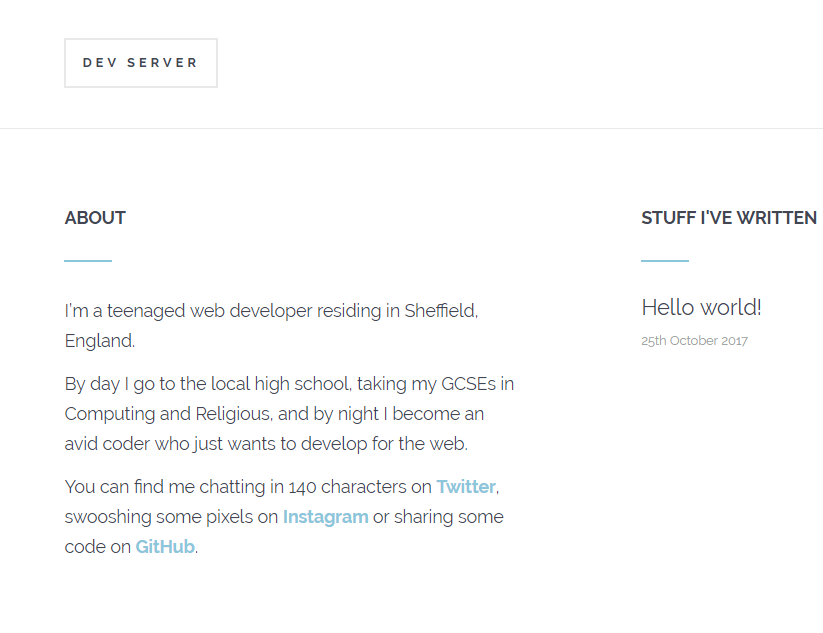
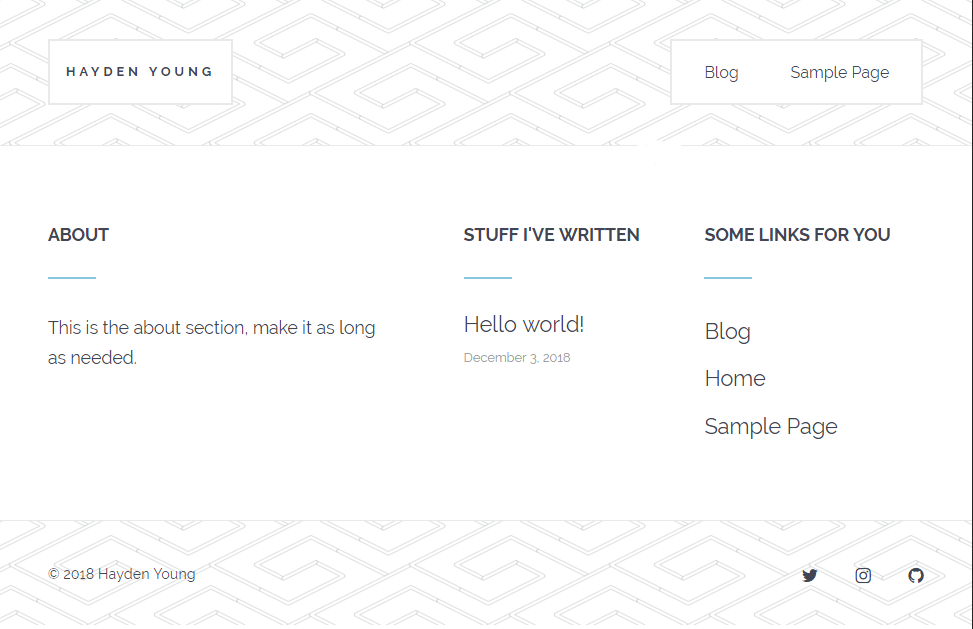
Updated theme to 18.12.3

diff --git a/style.css b/style.css
@@ -6,7 +6,7 @@ Theme URI: http://haydennyyy.com/flux
 Author: Hayden Young
 Author URI: http://haydennyyy.com
 Description: The FluX theme for WordPress is for bloggers looking for an elegant, calm design.
-Version: 18.12
+Version: 18.12.3
 License: GNU General Public License v3 or later
 License URI: http://www.gnu.org/licenses/gpl-2.0.html
 Tags: blue, light, one-column, custom-menu
@@ -14,4 +14,4 @@ Text Domain: hbjy-flux
 
 This theme, like WordPress, is licensed under the GPL.
 Use it to make something cool, have fun, and share what you've learned with others.
-*/#main_navigation nav .menu{list-style:none}#main_navigation nav .menu .menu-item{display:block;float:right}#main_footer nav{margin-top:-1.5em}#main_footer nav .menu{list-style:none}#main_footer nav .menu .menu-item{display:block;float:right}#home_navigation ul{padding:0;margin:0}#home_navigation ul li{list-style-type:none;font-size:1.35rem;font-weight:400;margin-bottom:.5em}.about li{padding:0;margin:0;list-style-type:none}#main_navigation{padding:2.5em 5%;border-bottom:1px solid #e9e9e9}#main_navigation .name{font-weight:700;font-size:.8em;letter-spacing:4px;text-transform:uppercase;border:2px solid #e9e9e9;padding:1rem;text-decoration:none;color:#424652;float:left}#main_navigation .logo{float:left}#main_navigation br{display:none}#main_navigation nav{float:right;padding-top:10px}#main_navigation nav ul{list-style:none;padding:0;margin:0}#main_navigation nav ul li a{color:#424652;text-decoration:none;margin:0 1rem;font-size:1rem}#main_navigation nav ul li a:hover{padding-bottom:.25rem;color:#8bc6db;border-bottom:2px solid #8bc6db}#main_navigation nav ul li .menu .icon{display:none}@media screen and (max-width:600px){#main_navigation nav{text-align:left;float:left;white-space:pre-wrap;clear:left}#main_navigation nav ul{text-align:left;padding:0;margin:0;float:left;clear:left}#main_navigation nav ul li{text-align:left;float:left;clear:left;list-style-type:none}}#posts_wrapper{padding:3em 0}#posts_wrapper .post{text-align:center}#posts_wrapper .post .date{font-size:.9em;margin:0}#posts_wrapper .post h2{margin:0;font-size:2em;text-transform:uppercase}#posts_wrapper .post h2 a{text-decoration:none;color:#424652}#posts_wrapper .post h2 a:hover{color:#8bc6db}#posts_wrapper hr{margin:3em auto}#post_show_content header{text-align:center}#post_show_content header .date{font-size:.9em;color:#9a9da4;margin:0}#post_show_content header h1{margin:0}#post_show_content hr{margin:2em auto}#404{text-align:center}#404 hr{margin:2em auto}#share_box{text-align:center}#share_box p{padding:0 0 1em 0;margin:0;font-weight:700;text-transform:uppercase;color:#424652;font-size:.8em}#share_box i{color:#424652;padding:1em 1.5em}#share_box i:hover{color:#8bc6db;cursor:pointer}#main_footer{padding:2.5em 5% 4em 5%;border-top:1px solid #e9e9e9}#main_footer .copyright{float:left;font-size:.9em;margin:0}#main_footer nav{float:right}#main_footer nav i{color:#424652;margin-left:1em;padding-top:.2em}#main_footer nav i:hover{color:#8bc6db}h1,h2,h3,h4,h5,h6,li,p,ul{color:#424652}h1{font-size:2.5rem}h2{font-size:2rem}h3{font-size:1.75rem}h4{font-size:1.375rem}h5{font-size:1.25rem}h6{font-size:1rem}li,p{font-size:1.1rem;line-height:1.75}ol,p,ul{margin:0 0 1.6em 0}.col-1,.col-2,.col-3{float:left}.col-1{width:45%;padding:0 5% 0 2.5%}.col-2,.col-3{width:27.5%;padding:0 2.5%}.homepage_content h2{font-size:1.1rem;text-transform:uppercase}.homepage_content h3{font-size:1.35rem;font-weight:400;margin-bottom:.5em}.homepage_content a{text-decoration:none;color:#424652}.homepage_content a:hover{color:#8bc6db}.homepage_content .date{font-size:.8em;margin-bottom:2em;color:#9a9da4}.homepage_content p{margin:0 0 .75em 0}.about{padding:0 7.5% 0 0}.about a{color:#8bc6db;font-weight:700;text-decoration:none}.comments-area #respond .comment-reply-title,.comments-area .comments-title{text-align:center;padding:0 0 1em 0;margin:0;font-weight:700;text-transform:uppercase;color:#424652;font-size:.8em}.comments-area #comments_list{padding:0;margin:1em 0 28.8px 0}.comments-area #comments_list li{padding:1em;border:1px solid #e9e9e9;list-style-type:none;margin-bottom:.5em}.comments-area #comments_list .fn,.comments-area #comments_list .says{font-size:1.5rem}.comments-area #comments_list .avatar{margin:10px;float:left}.comments-area #respond p.comment-form-comment{margin:0}input[type=email],input[type=password],input[type=text],textarea{width:100%;max-width:100%;height:3em;border:2px solid #e9e9e9;padding:1em;margin:.5em 0 2em 0}textarea{min-height:20em}button,input[type=submit]{outline:none;background:transparent;border:2px solid #e9e9e9;text-align:center;font-size:1em;color:#424652;text-decoration:none;padding:1em 2em}button:hover,input[type=submit]:hover{border:2px solid #8bc6db;color:#8bc6db}.pagination{text-align:center;margin:0 0 3em 0}.pagination .screen-reader-text{display:none}.pagination .current,.pagination .next,.pagination .prev,.pagination a{padding:.75em 1em;margin:0 .5em;border-radius:.15em;line-height:20px;text-decoration:none;background:none;font-weight:700;font-size:.7em;font-style:normal;color:#424652}.pagination .current:hover,.pagination .next:hover,.pagination .prev:hover,.pagination a:hover{background:#8bc6db;color:#fff}.pagination .current{background:#8bc6db;color:#fff}.pagination:after,.pagination:before{content:"";display:table}.pagination:after{clear:box}@media screen and (max-width:600px){.wrapper{width:80%}.wrapper .col-1,.wrapper .col-2,.wrapper .col-3{width:100%}}
+*/#main_navigation nav .menu{list-style:none}#main_navigation nav .menu .menu-item{display:inline}#main_footer nav ul{list-style:none}#main_footer nav ul .menu-item,#main_footer nav ul .page_item{display:inline;margin-left:16px}#home_navigation ul{padding:0;margin:0}#home_navigation ul li{list-style-type:none;font-size:1.35rem;font-weight:400;margin-bottom:.5em}.about li{padding:0;margin:0;list-style-type:none}#main_navigation{padding:2.5em 5%;border-bottom:1px solid #e9e9e9;display:grid;grid-template-columns:auto 1fr auto}#main_navigation .name{background:white;font-weight:700;font-size:.8em;letter-spacing:4px;text-transform:uppercase;border:2px solid #e9e9e9;padding:1.5rem 1rem 1rem 1rem;text-decoration:none;color:#424652;float:left;grid-column:1}#main_navigation .logo{float:left}#main_navigation br{display:none}#main_navigation nav{grid-column:3}#main_navigation nav ul{display:block;list-style:none;padding:0;margin:0;background:white;border:2px solid #e9e9e9;padding:1rem;text-decoration:none;color:#424652}#main_navigation nav ul li{display:inline;margin-left:16px}#main_navigation nav ul li:first-child{margin-left:0}#main_navigation nav ul li a{color:#424652;text-decoration:none;margin:0 1rem;font-size:1rem}#main_navigation nav ul li a:hover{padding-bottom:.25rem;color:#8bc6db;border-bottom:2px solid #8bc6db}#main_navigation nav ul li .menu .icon{display:none}@media screen and (max-width:600px){#main_navigation nav{text-align:left;float:left;white-space:pre-wrap;clear:left}#main_navigation nav ul{text-align:left;padding:0;margin:0;float:left;clear:left}#main_navigation nav ul li{text-align:left;float:left;clear:left;list-style-type:none}}#posts_wrapper{padding:3em 0}#posts_wrapper .post{text-align:center}#posts_wrapper .post .date{font-size:.9em;margin:0}#posts_wrapper .post h2{margin:0;font-size:2em;text-transform:uppercase}#posts_wrapper .post h2 a{text-decoration:none;color:#424652}#posts_wrapper .post h2 a:hover{color:#8bc6db}#posts_wrapper hr{margin:3em auto}#post_show_content .fimage{width:100%;margin-bottom:32px}#post_show_content header{text-align:center}#post_show_content header .date{font-size:.9em;color:#9a9da4;margin:0}#post_show_content header h1{margin:0}#post_show_content hr{margin:2em auto}#404{text-align:center}#404 hr{margin:2em auto}#share_box{text-align:center}#share_box p{padding:0 0 1em 0;margin:0;font-weight:700;text-transform:uppercase;color:#424652;font-size:.8em}#share_box i{color:#424652;padding:1em 1.5em}#share_box i:hover{color:#8bc6db;cursor:pointer}#main_footer{padding:2.5em 5% 4em 5%;border-top:1px solid #e9e9e9}#main_footer .copyright{float:left;font-size:.9em;margin:0}#main_footer nav{float:right}#main_footer nav i{color:#424652;margin-left:1em;padding-top:.2em}#main_footer nav i:hover{color:#8bc6db}h1,h2,h3,h4,h5,h6,li,p,ul{color:#424652}h1{font-size:2.5rem}h2{font-size:2rem}h3{font-size:1.75rem}h4{font-size:1.375rem}h5{font-size:1.25rem}h6{font-size:1rem}li,p{font-size:1.1rem;line-height:1.75}ol,p,ul{margin:0 0 1.6em 0}.col-1,.col-2,.col-3{float:left}.col-1{width:45%;padding:0 5% 0 2.5%}.col-2,.col-3{width:27.5%;padding:0 2.5%}.homepage_content h2{font-size:1.1rem;text-transform:uppercase}.homepage_content h3{font-size:1.35rem;font-weight:400;margin-bottom:.5em}.homepage_content a{text-decoration:none;color:#424652}.homepage_content a:hover{color:#8bc6db}.homepage_content .date{font-size:.8em;margin-bottom:2em;color:#9a9da4}.homepage_content p{margin:0 0 .75em 0}.about{padding:0 7.5% 0 0}.about a{color:#8bc6db;font-weight:700;text-decoration:none}.comments-area #respond .comment-reply-title,.comments-area .comments-title{text-align:center;padding:0 0 1em 0;margin:0;font-weight:700;text-transform:uppercase;color:#424652;font-size:.8em}.comments-area #comments_list{padding:0;margin:1em 0 28.8px 0}.comments-area #comments_list li{padding:1em;border:1px solid #e9e9e9;list-style-type:none;margin-bottom:.5em}.comments-area #comments_list .fn,.comments-area #comments_list .says{font-size:1.5rem}.comments-area #comments_list .avatar{margin:10px;float:left}.comments-area #respond p.comment-form-comment{margin:0}input[type=email],input[type=password],input[type=text],textarea{width:100%;max-width:100%;height:3em;border:2px solid #e9e9e9;padding:1em;margin:.5em 0 2em 0}textarea{min-height:20em}button,input[type=submit]{outline:none;background:transparent;border:2px solid #e9e9e9;text-align:center;font-size:1em;color:#424652;text-decoration:none;padding:1em 2em}button:hover,input[type=submit]:hover{border:2px solid #8bc6db;color:#8bc6db}.pagination{text-align:center;margin:0 0 3em 0}.pagination .screen-reader-text{display:none}.pagination .current,.pagination .next,.pagination .prev,.pagination a{padding:.75em 1em;margin:0 .5em;border-radius:.15em;line-height:20px;text-decoration:none;background:none;font-weight:700;font-size:.7em;font-style:normal;color:#424652}.pagination .current:hover,.pagination .next:hover,.pagination .prev:hover,.pagination a:hover{background:#8bc6db;color:#fff}.pagination .current{background:#8bc6db;color:#fff}.pagination:after,.pagination:before{content:"";display:table}.pagination:after{clear:box}@media screen and (max-width:600px){.wrapper{width:80%}.wrapper .col-1,.wrapper .col-2,.wrapper .col-3{width:100%}}

diff --git a/scss/_navigation.scss b/scss/_navigation.scss
@@ -1,16 +1,20 @@
 #main_navigation {
   padding: 2.5em 5%;
   border-bottom: 1px solid $border;
+  display: grid;
+  grid-template-columns: auto 1fr auto;
   .name {
+    background: white;
     font-weight: 700;
     font-size: .8em;
     letter-spacing: 4px;
     text-transform: uppercase;
     border: 2px solid $border;
-    padding: 1rem;
+    padding: 1.5rem 1rem 1rem 1rem;
     text-decoration: none;
     color: $dark;
     float: left;
+    grid-column: 1;
   }
   .logo {
     float:left;
@@ -19,13 +23,21 @@
     display: none;
   }
   nav {
-    float: right;
-    padding-top: 10px;
+    grid-column: 3;
     ul {
+      display: block;
       list-style: none;
       padding: 0;
       margin: 0;
+      background: white;
+      border: 2px solid $border;
+      padding: 1rem;
+      text-decoration: none;
+      color: $dark;
       li {
+        display: inline;
+        margin-left: 16px;
+        &:first-child { margin-left: 0 }
         a {
           color: $dark;
           text-decoration: none;

diff --git a/scss/wp_specific.scss b/scss/wp_specific.scss
@@ -23,8 +23,7 @@ Use it to make something cool, have fun, and share what you've learned with othe
     .menu {
       list-style: none;
       .menu-item {
-        display: block;
-        float: right;
+        display: inline;
       }
     }
   }
@@ -32,13 +31,9 @@ Use it to make something cool, have fun, and share what you've learned with othe
 
 #main_footer {
   nav {
-    margin-top: -1.5em;
-    .menu {
+    ul {
       list-style: none;
-      .menu-item {
-        display: block;
-        float: right;
-      }
+      .menu-item, .page_item { display: inline; margin-left: 16px; }
     }
   }
 }

diff --git a/scss/post_project.scss b/scss/post_project.scss
@@ -26,6 +26,10 @@
 
 // Posts Show
 #post_show_content {
+  .fimage {
+    width: 100%;
+    margin-bottom: 32px;
+  }
   header {
     text-align: center;
     .date {

diff --git a/single.php b/single.php
@@ -1,7 +1,16 @@
 <?php get_header(); ?>
 
-<div id="post_show_content" class="wrapper_padding skinny_wrapper">
-  <?php if ( have_posts() ) : while ( have_posts() ) : the_post(); ?>
+<article id="post_show_content" class="wrapper_padding skinny_wrapper">
+  <?php if ( have_posts() ) : while ( have_posts() ) : the_post(); 
+    $img_id = get_post_thumbnail_id();
+    if( !empty( $img_id ) ) {
+      $img_url_array = wp_get_attachment_image_src($img_id, 'large', true);
+      $img_url = $img_url_array[0];
+    }
+  ?>
+  <?php if ( !empty( $img_url ) ) : ?>
+    <img class="fimage" src="<?php echo($img_url) ?>" alt="Featured image" />
+  <?php endif; ?>
     <header>
       <p class="date"><?php the_date(); ?></p>
       <h1><?php the_title(); ?></h1>
@@ -25,6 +34,6 @@
          comments_template();
      endif; ?>
   <?php endwhile; endif; ?>
-</div>
+</article>
 
 <?php get_footer(); ?>

diff --git a/index.php b/index.php
@@ -3,11 +3,12 @@
 <div id="posts_wrapper" class="skinny_wrapper">
 <?php if ( have_posts() ) : ?>
     <?php while ( have_posts() ) : the_post(); ?>
-        <div class="post">
+        <article class="post">
           <p class="date"><?php the_date(); ?></p>
           <h2><a href="<?php the_permalink(); ?>"><?php the_title(); ?></a></h2>
+          <p class="excerpt"><?php the_excerpt(); ?></p>
           <hr>
-        </div>
+        </article>
     <?php endwhile; ?>
 <?php endif; ?>
 </div>

diff --git a/header.php b/header.php
@@ -17,7 +17,7 @@
     <?php wp_head(); ?>
   </head>
   <body>
-    <header id="main_navigation" class="clearfix">
+    <header id="main_navigation" class="clearfix" style="background-image: url(<?php echo get_stylesheet_directory_uri().'/assets/pipes.png'; ?>)">
       <a href="<?php echo site_url(); ?>" class="name"><?php bloginfo('title'); ?></a>
       <nav class="main-nav">
         <?php wp_nav_menu( array( 'theme_location' => 'header_nav' ) ); ?>

diff --git a/footer.php b/footer.php
@@ -1,8 +1,9 @@
-<footer id="main_footer">
+<footer id="main_footer" style="background-image: url(<?php echo get_stylesheet_directory_uri().'/assets/pipes.png'; ?>)">
   <p class="copyright">&copy; <?php echo date('Y'); ?> <?php bloginfo('title'); ?></p>
   <nav>
     <?php wp_nav_menu( array( 'theme_location' => 'social_nav' ) ); ?>
   </nav>
+  <?php wp_footer(); ?>
 </footer>
 </body>
 </html>

diff --git a/functions.php b/functions.php
@@ -26,3 +26,5 @@ function scriptsAndStyles() {
 
 }
 add_action( 'wp_enqueue_scripts', 'scriptsAndStyles' );
+
+add_theme_support('post-thumbnails'); 
